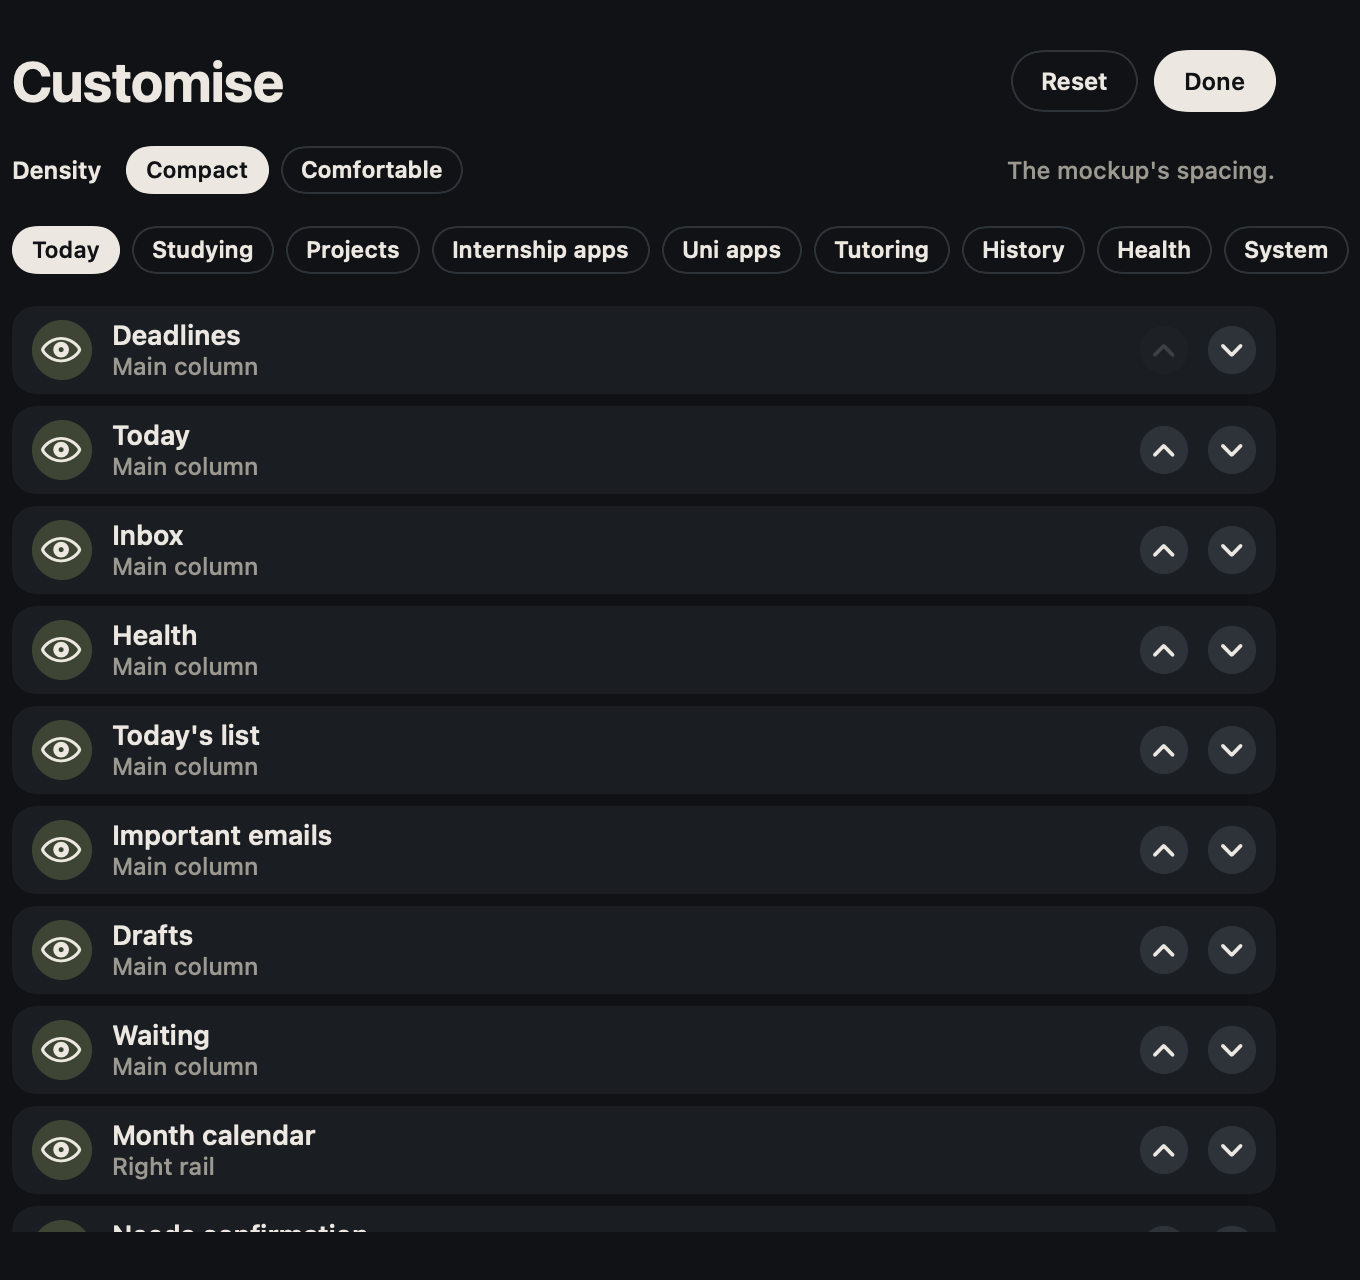
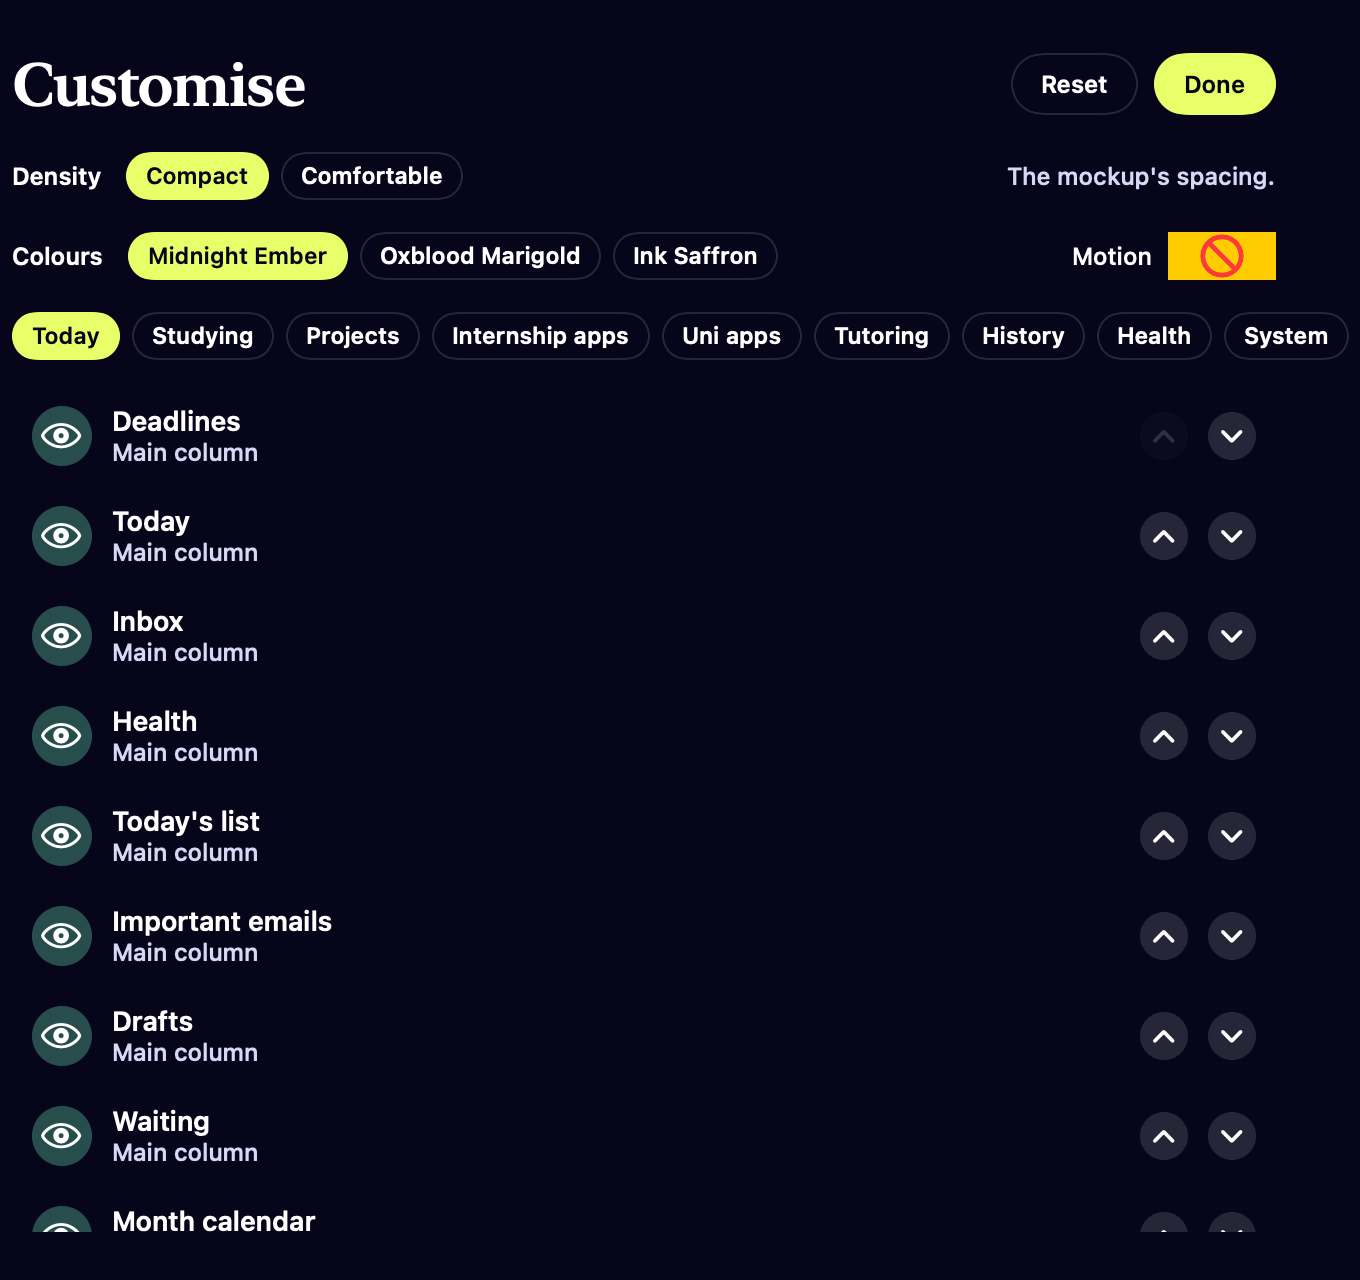
Darker glass and lighter tints after the design audit; docs for the new look

diff --git a/Sources/Desk/Theme/Theme.swift b/Sources/Desk/Theme/Theme.swift
@@ -30,17 +30,20 @@ struct Theme {
     var primary: Color { pick(c.deep, c.bright) }
     var onPrimary: Color { pick(0xFFFFFF, c.field[0]) }
     var control: Color { isDark ? Color(hex: c.field[2]).opacity(solid ? 1 : raisedGlass) : Color(hex: c.deep) }
+    /// A selected row: lighter in light mode, where a strong wash would read as an error.
+    private var selectionStrength: Double { isDark ? selectionWash : selectionWash * 0.6 }
     var panelText: Color { Color(hex: c.ink) }
     var panelMuted: Color { Color(hex: c.muted).opacity(captionOpacity) }
     /// Glass: a card or row over the backdrop.
     var surface: Color {
         if solid { return pick(0xFFFFFF, c.field[1]) }
-        return isDark ? Color.white.opacity(surfaceGlassDark) : Color.white.opacity(surfaceGlassLight)
+        // Dark glass is smoked, not frosted: it keeps text legible where the glow sits behind a card.
+        return isDark ? Color(hex: c.field[0]).opacity(surfaceGlassDark) : Color.white.opacity(surfaceGlassLight)
     }
     /// Brighter glass: search field, event cards, hover.
     var raised: Color {
         if solid { return pick(0xFFFFFF, c.field[2]) }
-        return isDark ? Color.white.opacity(raisedGlass) : Color.white.opacity(raisedGlassLight)
+        return isDark ? Color(hex: c.field[1].mixed(with: c.field[2], 0.6)).opacity(raisedGlass) : Color.white.opacity(raisedGlassLight)
     }
     /// Opaque: panels that float over other content (the inspector, search results, popovers).
     var floating: Color { pick(0xFFFFFF, c.field[1].mixed(with: c.field[2], 0.5)) }
@@ -57,7 +60,7 @@ struct Theme {
     /// Text on a solid `focus` fill.
     var onFocus: Color { pick(0xFFFFFF, c.field[0]) }
     /// A selected row: glass washed with the accent.
-    var selection: Color { focus.opacity(selectionWash) }
+    var selection: Color { focus.opacity(selectionStrength) }
     var caution: Color { signal(c.caution) }
     var cautionDeep: Color { signal(c.caution, shade: deepShade) }
     var info: Color { signal(c.info) }
@@ -109,6 +112,11 @@ struct Theme {
         accent == .neutral ? [.clear, .clear] : [fill(accent).opacity(isDark ? washStrongDark : washStrong), fill(accent).opacity(washFaint)]
     }
 
+    /// The big shape in a stat card: a hint of the accent, never a block of colour.
+    func shape(_ accent: Accent) -> Color {
+        fill(accent == .neutral ? .info : accent).opacity(isDark ? shapeWashDark : shapeWash)
+    }
+
     // MARK: Backdrop (Shell/Backdrop.swift)
 
     var fieldStops: [Color] { (isDark ? c.field : c.fieldLight).map { Color(hex: $0) } }
@@ -131,21 +139,22 @@ struct Theme {
 
     // MARK: Glass
 
-    let surfaceGlassDark = 0.075
-    let surfaceGlassLight = 0.56
-    let raisedGlass = 0.14
-    let raisedGlassLight = 0.84
+    let surfaceGlassDark = 0.50
+    let surfaceGlassLight = 0.66
+    let raisedGlass = 0.72
+    let raisedGlassLight = 0.88
     let panelGlassDark = 0.55
     let panelGlassLight = 0.94
     let lineGlass = 0.13
     let edgeGlassDark = 0.24
     let edgeGlassLight = 0.95
     let selectionWash = 0.20
-    let washStrong = 0.34
+    let washStrong = 0.20
     /// Bright accents over a dark field turn muddy when strong, so the wash is lighter there.
-    let washStrongDark = 0.20
-    let washFaint = 0.07
-    let shapeWash = 0.26
+    let washStrongDark = 0.13
+    let washFaint = 0.03
+    let shapeWash = 0.16
+    let shapeWashDark = 0.11
     let deepShade = 0.78
     let tideFloor = 0.55
     let tideGain = 0.30
@@ -155,7 +164,7 @@ struct Theme {
 
     let tintOpacity = 0.32
     let shapeOpacity = 0.55
-    let pastOpacity = 0.45
+    let pastOpacity = 0.6
     let captionOpacity = 0.72
     let outOfMonthOpacity = 0.32
     let navIdleOpacity = 0.74

diff --git a/Sources/Desk/Theme/Palette.swift b/Sources/Desk/Theme/Palette.swift
@@ -43,17 +43,17 @@ enum Palette: String, CaseIterable, Codable, Identifiable {
         case .ember:
             Colors(field: [0x06051A, 0x0D0B38, 0x1B1668], fieldLight: [0xF3F1FF, 0xE4DEFF, 0xFFE0D6],
                    deep: 0x14124A, glow: 0xFF5A3C, glowLight: 0xFFAE99, bright: 0xE8FF6A, focusLight: 0xE8432A,
-                   ink: 0xFFFFFF, muted: 0xC9C6EE, inkLight: 0x14124A, mutedLight: 0x4A4780,
+                   ink: 0xFFFFFF, muted: 0xDAD7F6, inkLight: 0x14124A, mutedLight: 0x4A4780,
                    good: (0x6EE7B7, 0x1F9D6B), caution: (0xFFD166, 0xB87D0A), alert: (0xFF7A7A, 0xD43D3D), info: (0x9CB8FF, 0x4B6FD6))
         case .oxblood:
             Colors(field: [0x0B0709, 0x1E0811, 0x4A0E22], fieldLight: [0xF6EEE8, 0xEFDDD6, 0xEBC7BF],
                    deep: 0x6E1230, glow: 0xC8324A, glowLight: 0xE9A0A0, bright: 0xFFC21A, focusLight: 0x9E1B3F,
-                   ink: 0xFFF7F0, muted: 0xD9C3BE, inkLight: 0x1E0B12, mutedLight: 0x5A3A44,
+                   ink: 0xFFF7F0, muted: 0xE6D5D0, inkLight: 0x1E0B12, mutedLight: 0x5A3A44,
                    good: (0x7FD6A0, 0x2B8F5A), caution: (0xFFA94D, 0xB86A0A), alert: (0xFF6B6B, 0xC93434), info: (0x8EC5FF, 0x3A78C2))
         case .saffron:
             Colors(field: [0x080A0C, 0x0A2A2C, 0x0E4D4F], fieldLight: [0xEEF3F0, 0xD9E9E3, 0xF7E3C0],
                    deep: 0x0E4D4F, glow: 0xE8742A, glowLight: 0xF7C56B, bright: 0xFF9E1B, focusLight: 0xC76A00,
-                   ink: 0xF2FAF7, muted: 0xB7CFC8, inkLight: 0x0A1F20, mutedLight: 0x3F5C5A,
+                   ink: 0xF2FAF7, muted: 0xCBDFD9, inkLight: 0x0A1F20, mutedLight: 0x3F5C5A,
                    good: (0x5EEAD4, 0x0F8F7C), caution: (0xFFD166, 0xA87408), alert: (0xFF6B6B, 0xC93434), info: (0x93C5FD, 0x3B73C4))
         }
     }

diff --git a/Sources/Desk/Tabs/Life/History.swift b/Sources/Desk/Tabs/Life/History.swift
@@ -58,7 +58,7 @@ struct EarningsBars: View {
                                 Text(verbatim: bar.amount > 0 ? Parse.number(bar.amount.rounded()) : " ")
                                     .style(\.micro, current ? \.ink : \.inkMuted).lineLimit(1).minimumScaleFactor(t.tightScale)
                                 RoundedRectangle(cornerRadius: t.radiusSmall)
-                                    .fill(current ? t.deep(.info) : t.fill(.info))
+                                    .fill(current ? t.focus : t.fill(.info).opacity(t.onAccentBlock))
                                     .frame(height: bar.amount > 0 ? max(t.sp2, CGFloat(bar.amount / top) * room) : t.hairline)
                                 Text(verbatim: d.monthName(bar.key, pattern: "LLLLL")).style(\.micro, current ? \.ink : \.inkMuted)
                                 // The year under each January, and under the first bar.

diff --git a/Sources/Desk/Components/Cards.swift b/Sources/Desk/Components/Cards.swift
@@ -31,7 +31,7 @@ struct StatCard<Content: View>: View {
         .padding(t.sp20)
         .frame(maxWidth: .infinity, minHeight: tall ? t.cardTall : t.cardShort, maxHeight: .infinity, alignment: .topLeading)
         .background(alignment: placement.anchor) {
-            CardShapeView(shape: shape, color: t.fill(accent == .neutral ? .info : accent).opacity(t.shapeWash))
+            CardShapeView(shape: shape, color: t.shape(accent))
                 .frame(width: placement.size.width, height: placement.size.height)
                 .rotationEffect(.degrees(placement.degrees))
                 .offset(placement.offset)

diff --git a/DESIGN.md b/DESIGN.md
@@ -11,30 +11,19 @@
 - **Calm density.** An 8-point grid, generous padding, one line per row.
 
 ## Palette
-Define once in `Theme.swift` as semantic tokens. Text on accent cards is always `onAccent` in both modes.
+Two strong colours and one bright accent, in three colourways (Customise → Colours). Hex values live in `Theme/Palette.swift`; views read tokens from `Theme.swift` and never hold a colour.
 
-| Token | Light | Dark | Use |
+| Colourway | Field (strong 1) | Glow (strong 2) | Bright accent |
 |---|---|---|---|
-| `canvas` | `#ECE8E1` | `#101215` | Window background |
-| `panel` | `#16181C` | `#08090B` | Sidebar (in dark mode with a 1 pt `line` border) |
-| `primary` / `onPrimary` | `#16181C` / `#ECE8E1` | `#ECE8E1` / `#101215` | Primary buttons, active tabs and chips (inverted in dark mode) |
-| `control` | `#16181C` | `#23272D` + 1 pt `line` border | Round icon buttons |
-| `panelText` | `#ECE8E1` | `#ECE8E1` | Text on the panel |
-| `panelMuted` | `#8C8A84` | `#77756F` | Section labels and hints on the panel |
-| `surface` | `#E2DDD4` | `#1A1D22` | List rows, neutral cards |
-| `raised` | `#F7F4EF` | `#23272D` | Search field, inspector, popovers, timeline and confirm cards |
-| `line` | `#D2CCC1` | `#2E333A` | Borders, tracks, dividers |
-| `ink` | `#16181C` | `#ECE8E1` | Primary text on canvas and surfaces |
-| `inkMuted` | `#5F5D57` | `#9C9990` | Secondary text |
-| `onAccent` | `#16181C` | `#16181C` | Text on accent cards |
-| `ochre` / `ochreDeep` | `#D4A23F` / `#B4842A` | same | Deadlines, Studying |
-| `rust` / `rustDeep` | `#C8763C` / `#A35A2A` | same | Today, selection, "now" |
-| `steel` / `steelDeep` | `#8EA6BE` / `#6C88A5` | same | Inbox, Uni apps |
-| `moss` / `mossDeep` | `#8A9A5B` / `#6B7A41` | same | Health, done, paid |
-| `navy` | `#1F2C3B` | `#2A3B4F` | System cards, dark chips |
-| `alert` | `#A8432F` | `#C9573F` | Failures and overdue items, always with a label |
+| **Midnight Ember** (default) | indigo `#14124A` | coral `#FF5A3C` | lime `#E8FF6A` |
+| **Oxblood Marigold** | burgundy `#6E1230` | crimson `#C8324A` | marigold `#FFC21A` |
+| **Ink Saffron** | deep teal `#0E4D4F` | burnt orange `#E8742A` | saffron `#FF9E1B` |
 
-Contrast of `onAccent` text: ochre 7.6:1, steel 7.1:1, rust 5.2:1, moss 5.8:1. `ink` on `canvas`: 14.6:1. `inkMuted` on `surface`: 4.9:1.
+- **Backdrop.** The field runs dark at the top to the glow at the bottom, under vertical fluted-glass ribs. Light mode uses a pale version of the same two colours.
+- **Glass.** Cards and rows are smoked glass in dark mode (the field colour at 50%) and white glass in light mode (66%), with a hairline edge lit from above. Panels that float over content (inspector, search results) are opaque.
+- **Accent.** `focus` is the bright accent in dark mode and the hot strong colour in light mode, where lime would not read. It marks one thing at a time: today, the selection, the primary button.
+- **Signals.** `good`, `caution`, `info`, `alert`, each with a darker light-mode tone. They appear as chips, dots and a faint wash on stat cards, never as a block of colour.
+- **Accessibility.** Reduce Transparency or Increase Contrast makes every surface opaque. Text on glass must reach 4.5:1 where the glow is brightest.
 
 ## Type
 SF Pro (the system font). The mockup uses Inter as a stand-in.
@@ -84,7 +73,14 @@ SF Pro (the system font). The mockup uses Inter as a stand-in.
 - **System:** navy cards with light text for the latest run and the models; the 14-day run strip; the history table with status chips.
 
 ## Motion and accessibility
-- 180 ms ease-out on selection, tab and inspector changes. Numbers don't animate. Respect Reduce Motion.
+All motion is off with Reduce Motion, in Low Power Mode, in snapshots, and when Motion is switched off in Customise. The backdrop also stops while Desk is not the active app.
+- **The day's tide.** The glow at the bottom of the window is a meter, not decoration: it rises and brightens as today's work gets done (today's study share plus the tasks due today), and a bright core appears on the horizon. The same number is written under the greeting on Today.
+- **The time of day.** A soft column of light sits on the ribs where the day stands, 07:00 at the left edge and 22:00 at the right, as on the day strip.
+- **Drift.** Two colour fields move slowly (20 frames a second, no blur). They move faster when a deadline is within two days.
+- **Depth.** A card rises 2 pt under the pointer with a shadow; the shape inside a stat card drifts towards the pointer; rows brighten.
+- **Entrance.** Opening a tab, sections fade up one after another (360 ms, 45 ms apart).
+- **Numbers.** Digits roll when a figure changes; bars and rings fill when they appear.
+- **A tick.** The checkmark bounces and eight sparks fly out.
 - VoiceOver labels on every icon button. Keyboard: ⌘1–⌘9, ⌘0, ⌘R, ⌘F, Space ticks, Return opens, Esc closes the inspector.
 
 ## Don't

diff --git a/SPEC.md b/SPEC.md
@@ -79,8 +79,8 @@ A JSON array of rows. The web Desk reads the same file.
 - The study file (path in `settings.exam.file`): front matter `exam, date, plan_per_day, plan_start`; sections `## Theory` and `## Problems` (one checkbox per topic) and `## Past papers` (`- [x] June 2025 — 2026-11-08 — 6.5/10`; unticked papers have no date or score).
 - `projects/<slug>.md`: front matter `title, status (active|waiting|frozen|idea), next, next_date?, doc?` (`doc` is a vault path, e.g. `Research/EMG project.md`). Body: sub-items as checkboxes. Never restates the doc's facts.
 - `uni/<slug>.md`: front matter `title, deadline_row` (a snapshot `deadline` id) and `comparison_heading` (a `###` heading in `Masters/Programme comparison.md`). Body: the checklist (portal, CV, statement, letters, transcript, fee, submitted).
-- `internships/targets.json` (optional; absent until the board moves into the vault): `[{id, company, role, city, country, list (apply_now|target), status (open|applied|interview|offer|rejected|watching), graduate_ok, deadline?, next?, url?}]`.
-- `contacts/people.json` (optional, same rule): `[{id, name, programme, role, status (not_contacted|drafted|sent|replied|call_booked|no_reply), last_contact?, next?}]`.
+- `internships/board.json` (Jose's, edited from Desk): `{openings: [{id, order, company, title, location, start, duration, language, eligType (graduate|convenio), eligibility, fit, url, status, notes, added}], targets: [{id, name, kind, track, place, placeOrder, priority, status, url, why, notes}]}`. Status words: Not started, Researching, Applied, Interviewing, Offer, Rejected / closed.
+- `contacts/board.json` (Jose's, edited from Desk): `{contacts: [{id, name, prog, progOrder, uni, lab, role, why, paper, contact, url, priority, status, notes}]}`. Status words: Not contacted, Email drafted, Email sent, Replied, Call booked, No reply.
 - `desk/decisions.jsonl`: one line per click: `{at, row, action (add|dismiss|confirm|reopen)}`. The agent reads it, so it never re-proposes and can count clean confirmations.
 - `calendar/events.json` (**demo vault only**): `[{id, calendar, title, start, end, all_day, location?}]`. Stands in for EventKit in Demo mode.
 
@@ -117,7 +117,7 @@ A custom three-part layout (floating sidebar · content · right rail or inspect
    - The payments table, archive included, with status chips (Not sent · Sent · Paid) and Mark paid.
    - This week's lessons: the ones logged in the Classes note (`lesson-dates.csv`), then the calendar's still to come. The inspector shows the last note and the student's history.
 7. **History.** From `tutoring/lessons.csv`: earned this year, last year, all time and in the best month; euros per month for the last 24 months; each year (lessons, hours, students, change on the year before); each student's total, former students included, with their name.
-8. **Health.** From `strava.json`: this week's sessions, time and distance; a 7-day streak grid; 12-week bars; the activity list.
+8. **Health.** Hidden while there is no activity data. From an optional `agent/exports/strava.json` (no agent writes it today): this week's sessions, time and distance; a 7-day streak grid; 12-week bars; the activity list.
 9. **System.** Run history from `runs.jsonl` (time, status, duration, models, failures, usage note); a 14-day strip of runs; models used. This is the showcase panel.
 
 **Run-status rule** (the same as the web Desk): red when the last successful run is older than the latest scheduled run (`scheduled_run_local` in `timezone`, with 60 minutes' grace) or older than 30 hours; amber for a manual snapshot; green otherwise. Always with a word, never colour alone.
@@ -132,7 +132,7 @@ The Today mockup is V1 and a little dense, and Jose will keep changing the look.
 ## Integrations: what is possible and what is not
 - **WhatsApp: never read.** Reading a personal account needs an unofficial tool, and WhatsApp's terms forbid access "through automated or other means" and allow suspending the account (https://www.whatsapp.com/legal/terms-of-service-eea). Sending uses the official click-to-chat link with prefilled text (https://whatsapp.com/faq/en/general/26000030); Jose presses send.
 - **Calendar.** Live: EventKit with full access (`NSCalendarsFullAccessUsageDescription`; Apple TN3152). Google's own "Show events from Gmail" adds flights, trains, hotels, restaurants and tickets; it is off by default in the EEA (https://support.google.com/calendar/answer/6084018). Anything else arrives as an `add_event` proposal. Agents never write the calendar.
-- **Strava** through the nightly run; Garmin only through Strava's own sync. Not live.
+- **Activities**: not connected. Health reads `agent/exports/strava.json` if a future source writes it.
 - **Boards.** The email-reading run never gets a tool that can edit the artifact boards. Their data reaches the app by moving into the vault.
 
 ## Hand-offs

diff --git a/DECISIONS.md b/DECISIONS.md
@@ -106,3 +106,10 @@ Choices made where SPEC.md and DESIGN.md are silent or disagree. Each one is the
 | 100 | 13 Nov | Desk edits a student's parent, phone, subject, level and payment method in the inspector. These are written to `tutoring/contacts.json` and `students.md`, never committed. The import keeps a level Jose set over the note's group heading. | Month-end WhatsApp messages need a parent and a phone number, and only Jose knows them. |
 | 101 | 13 Nov | The Classes note is read again on the 15-minute sync once three hours have passed since the last read. | It stays current without ⌘R, and Notes wakes eight times a day at most. |
 | 102 | 13 Nov | Health's tab and Today card hide while there is no activity data. | Since Strava was dropped they only showed empty states. |
+| 103 | 14 Nov | Accents are named by meaning (`focus`, `caution`, `info`, `good`, `deep`), and colours come from a `Palette`: two strong colours, one bright accent, four signals. Three colourways ship; Midnight Ember, the one closest to Jose's references, is the default. | The old names were colours (`rust`, `ochre`), which a second colourway would have made false. A council of three (design, risk, code audit) proposed the palettes and the risks. |
+| 104 | 14 Nov | The backdrop carries the day: a glow that rises with the share of today's work done, and a column of light at the time of day. | Depth and movement that mean something: Jose can read the state of his day without reading a card. |
+| 105 | 14 Nov | Today's study share is fixed when the day starts and ticks count against it, down to "Done for today". The start-of-day count is an app preference, not a vault file. | Before, ticking one item pulled the next into "today", so the target never shrank. |
+| 106 | 14 Nov | Dark glass is the field colour at 50%, not white at 8%; stat-card tints and shapes are about 10%. | Found by the design auditor on the first screenshots: text over the glow fell to about 3:1 and the tints turned muddy. |
+| 107 | 14 Nov | The backdrop is a `Canvas` of gradients at 20 frames a second, with no blur and no materials, and it stops when Desk is inactive, in Low Power Mode and with Reduce Motion. Motion is off without stored preferences, so tests click where the layout says. | The app was sluggish a week ago; the risk review ranked "sluggishness returns" first. |
+| 108 | 14 Nov | Statuses are enums (`TargetStatus`, `TargetList`, `PersonStatus`), the parsers and the Classes import are split by concern, and the fallbacks for `targets.json`, `people.json` and `agent/board.json` are gone. `Store.swift` is not split: its private state would have to open up to other files. | From the code audit. A typo in a status no longer compiles. |
+| 109 | 14 Nov | The Classes import refreshes only the last `refresh_months` months (2); older months stay as first written. | Jose's request: the note is long, and only recent months change. |

diff --git a/BUILD_NOTES.md b/BUILD_NOTES.md
@@ -160,3 +160,9 @@ It also noted that Internship apps shows four count cards (Open, Applied, Interv
 - Internships (decision 99): 199 openings and 89 targets moved into `internships/board.json`. A new Monday scan routine replaces the Cowork one, and the morning skill no longer exports the board, so the injection eval was re-run for the new skill version.
 - Student details, the timed Classes import and hidden Health: decisions 100–102. `finance/` is gitignored, ready for a Revolut statement export.
 - **Checked:** 88 tests (1 opt-in skipped).
+
+## 14 Nov — Refactor, a living backdrop, three palettes
+- **How it was decided:** three reviewers ran first, on cheaper models: a design voice (palettes and motion), a risk voice (eight ways it could go wrong) and a code audit (25 refactor items). A fourth reviewed the first screenshots and judged them "not premium yet"; its main fix (darker glass, lighter tints) is in. Decisions 103–109.
+- **Refactor:** done on a separate branch by a helper while the visual work went on, then merged with no conflicts. 88 tests before and after.
+- **Not done:** `Store.swift` is still one file (decision 108). The "show 30 more" pattern is still repeated in eight lists.
+- **Checked:** 88 tests (1 opt-in skipped); every tab rendered in light and dark; the installed app idles at 0% CPU when it is not the active window.

diff --git a/CLAUDE.md b/CLAUDE.md
@@ -27,7 +27,7 @@ You are building **Desk for Mac**, a native SwiftUI app, on Jose's Mac. Everythi
 - Add third-party Swift packages.
 
 ## Done means
-- All eight tabs match DESIGN.md and render fully from `demo-vault/`, in light and dark.
+- All nine tabs match DESIGN.md and render fully from `demo-vault/`, in light and dark.
 - `scripts/build-app.sh` installs `Desk.app` to `~/Applications`, and it launches from the Dock.
 - Screenshots of every tab, light and dark, in `design/screenshots/`.
 - README explains how to build, and how to switch to the live vault once `jose-brain` exists.
